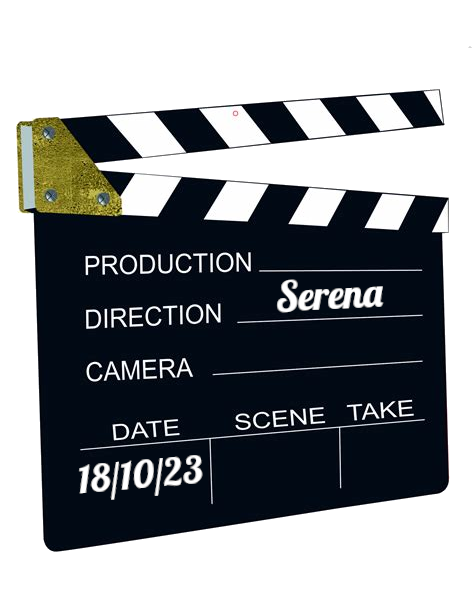
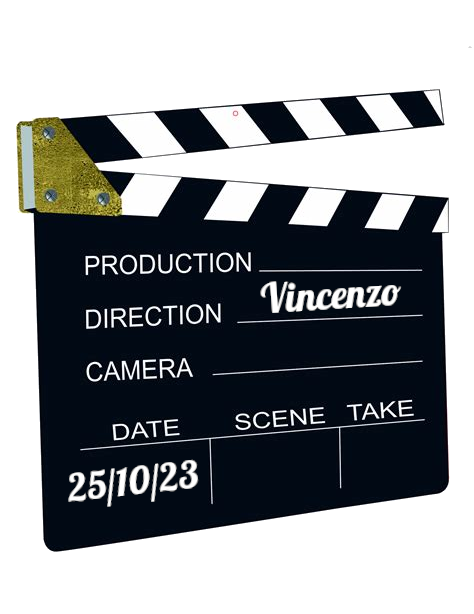
L'arte della felicità

Changed region(s): [[0.1477, 0.7427, 0.443, 0.8355], [0.5316, 0.4332, 0.8565, 0.5261]]

diff --git a/index.html b/index.html
@@ -40,7 +40,7 @@
 
 <br /><br /><hr width="90%"><hr width="90%"><br /><br />
 
-<h1>Mercoled&igrave; 18 ottobre 2023</h1>
+<h1>Mercoled&igrave; 25 ottobre 2023</h1>
 <h2>Alle 20:30 in Via Nizza, 72</h2>
 
 <img src="img/ciak.png" class="locandina"/>
@@ -48,6 +48,16 @@
 <h2><i></i></h2>
 
 <br /><br /><hr width="90%"><hr width="90%"><br /><br />
+
+<h1>Mercoled&igrave; 18 ottobre 2023</h1>
+<p class="mtitle">
+<a href="https://www.imdb.com/title/tt2990836/" target="_blank">L'Arte della Felicità</a>
+</p>
+<img src="https://image.tmdb.org/t/p/w500/yr0VKEmS4SR7sF3dDQ0cwKU7VMH.jpg" class="locandina"/>
+<h2>Selezionatrice: <i>Serena</i></h2>
+
+
+<br /><br /><hr width="90%"><br /><br />
 
 <h1>Mercoled&igrave; 11 ottobre 2023</h1>
 <p class="mtitle">

diff --git a/movieslist.html b/movieslist.html
@@ -29,6 +29,17 @@ Rassegnamoci, Cineforum a Programma Variabile - Elenco Film
   </thead>
   <tbody>
     <tr>
+      <td>18-Ott-2023</td>
+      <td>L'arte della felicità</td>
+      <td>Serena</td>
+      <td>-</td>
+      <td>2013</td>
+      <td>Alessandro Rak</td>
+      <td>76</td>
+      <td>IT</td>
+      <td><a href="https://www.imdb.com/title/tt2990836" target="_blank">https://www.imdb.com/title/tt2990836</a></td>
+    </tr>
+    <tr>
       <td>11-Ott-2023</td>
       <td>Lunana: il villaggio alla fine del mondo</td>
       <td>Adriana</td>
